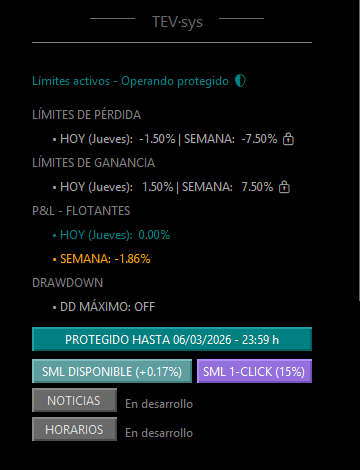
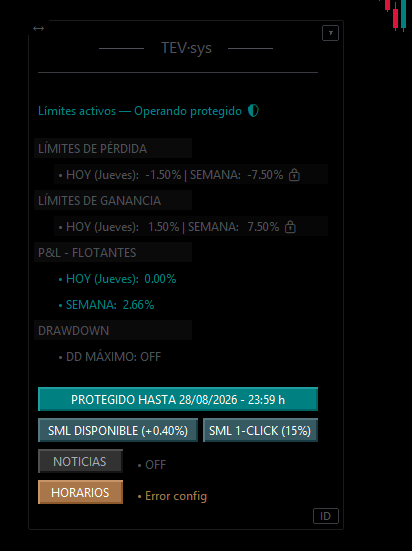
web(tevsys): refresh SML panel capture with teal buttons

diff --git a/docs/CHANGELOG-TEVSYS.md b/docs/CHANGELOG-TEVSYS.md
@@ -4,6 +4,12 @@ Registro completo de cambios aplicados en la landing de tevsys (base Odyssey The
 
 **Norma (jun 2026):** todo cambio web relevante se registra **aquí** (detalle) **y** en `docs/QUE_CONTIENE_TGP_Modular_Skeleton_V12.md` → *Ampliaciones* (viñeta + puntero). Espejo de criterio visual: `docs/SISTEMA_VISUAL_CUATRO_FAMILIAS_TEVSYS.md`.
 
+## SML micropágina — captura panel teal (30 ago 2026)
+
+- **Qué:** sustituye `sml-panel-validacion-demo.png` (botones SML actuales teal; ya no 1-CLICK lila de marzo). `?v=20260830`.
+- **Nota:** HORARIOS «Error config» visible — temporal hasta foto limpia / vídeo con mercado.
+- **Commit:** `web(tevsys): refresh SML panel capture with teal buttons`
+
 ## Redirect `/features/evidence` → evidencia (30 ago 2026)
 
 - **Qué:** redirect permanente `/features/evidence` → `/features/evidencia` (`astro.config.mjs` + `vercel.json`).
